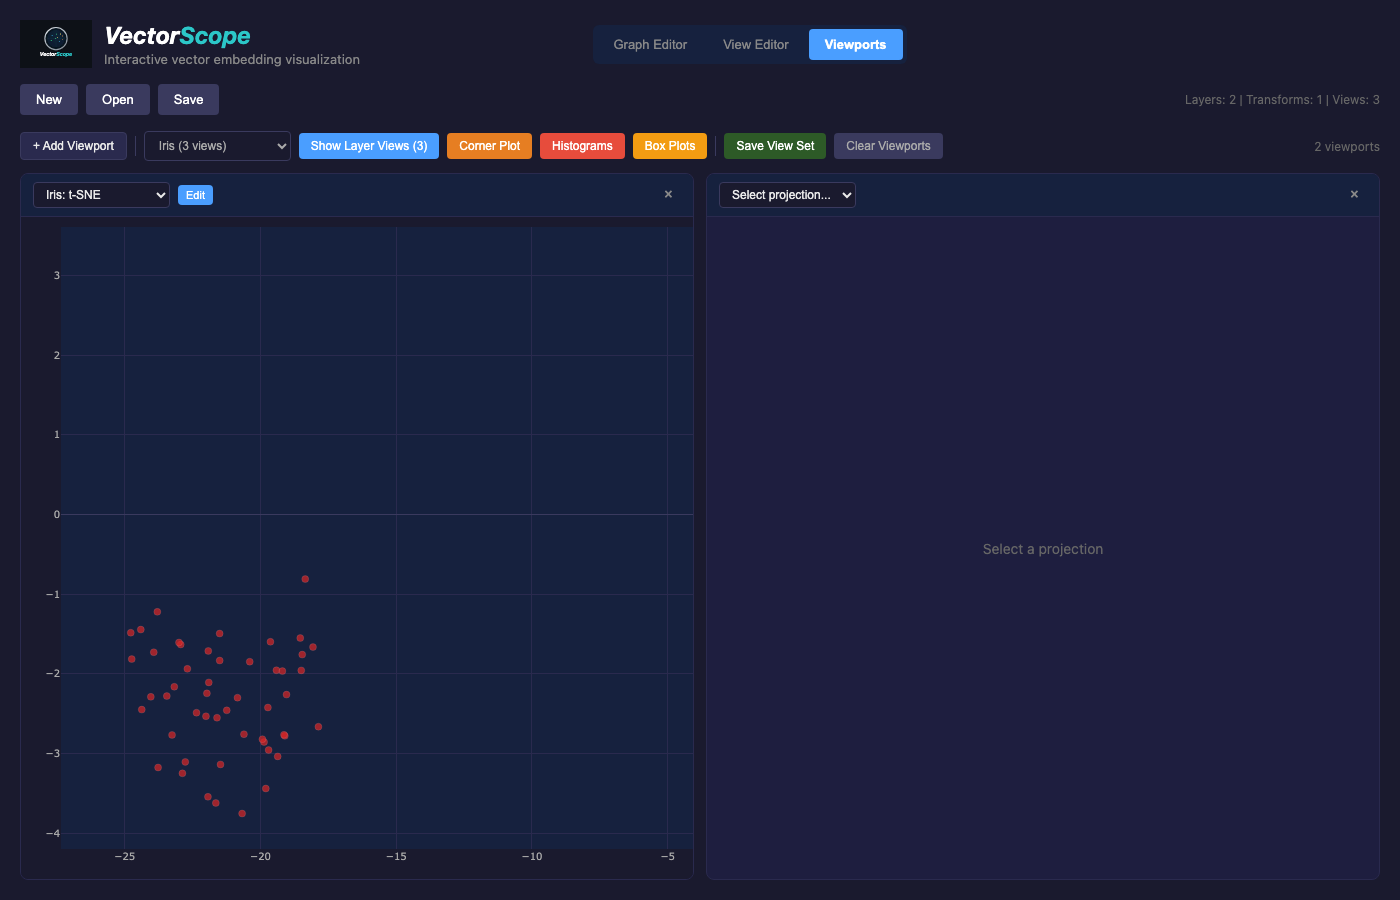
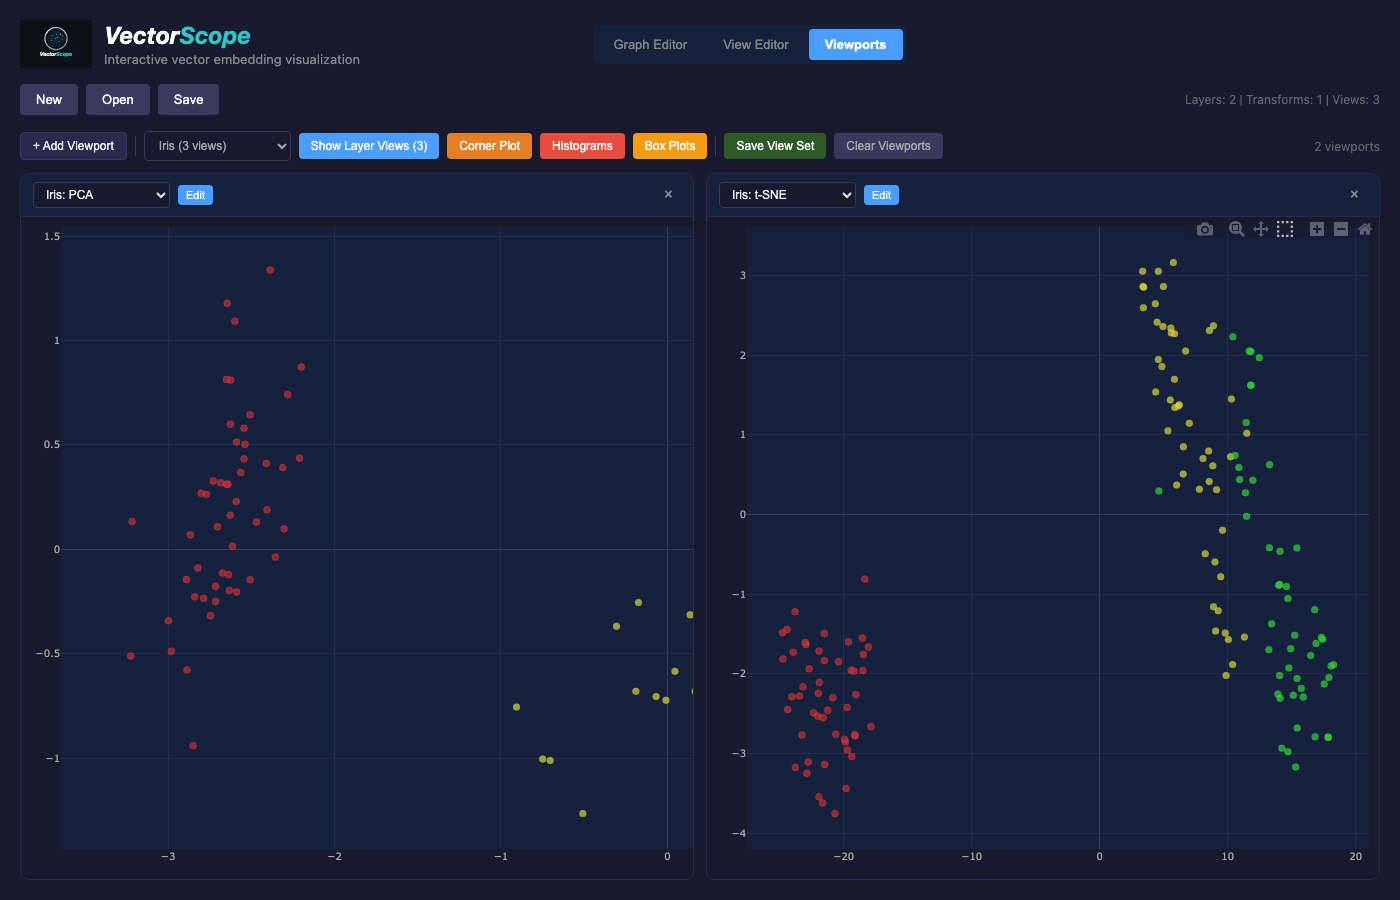
Fix viewports screenshot to show PCA left, t-SNE right
- Improved viewport select detection logic
- Added debug output to verify projection selection
- Both viewports now correctly display their assigned projections

🤖 Generated with [Claude Code](https://claude.com/claude-code)

diff --git a/scripts/capture_screenshots.py b/scripts/capture_screenshots.py
@@ -137,28 +137,39 @@ async def capture_screenshots():
 
             # Add a second viewport
             await page.click("button:has-text('Add Viewport')", timeout=5000)
-            await page.wait_for_timeout(500)
+            await page.wait_for_timeout(1000)
 
-            # Select PCA for first viewport
-            selects = await page.query_selector_all("select")
-            if len(selects) >= 1:
-                options = await selects[0].query_selector_all("option")
+            # Get all viewport select dropdowns (exclude any other selects)
+            # Look for selects that have "Select projection" option
+            all_selects = await page.query_selector_all("select")
+            viewport_selects = []
+            for select in all_selects:
+                inner_text = await select.inner_text()
+                if "Select projection" in inner_text or "pca" in inner_text.lower() or "tsne" in inner_text.lower():
+                    viewport_selects.append(select)
+
+            print(f"Found {len(viewport_selects)} viewport selects")
+
+            # Select PCA for first viewport (left)
+            if len(viewport_selects) >= 1:
+                options = await viewport_selects[0].query_selector_all("option")
                 for i, opt in enumerate(options):
                     text = await opt.text_content()
                     if "pca" in text.lower():
-                        await selects[0].select_option(index=i)
-                        await page.wait_for_timeout(500)
+                        await viewport_selects[0].select_option(index=i)
+                        print(f"Selected PCA in viewport 1: {text}")
+                        await page.wait_for_timeout(1000)
                         break
 
-            # Select t-SNE for second viewport
-            selects = await page.query_selector_all("select")
-            if len(selects) >= 2:
-                options = await selects[1].query_selector_all("option")
+            # Select t-SNE for second viewport (right)
+            if len(viewport_selects) >= 2:
+                options = await viewport_selects[1].query_selector_all("option")
                 for i, opt in enumerate(options):
                     text = await opt.text_content()
                     if "tsne" in text.lower() or "t-sne" in text.lower():
-                        await selects[1].select_option(index=i)
-                        await page.wait_for_timeout(500)
+                        await viewport_selects[1].select_option(index=i)
+                        print(f"Selected t-SNE in viewport 2: {text}")
+                        await page.wait_for_timeout(1000)
                         break
 
             await page.wait_for_timeout(2000)
@@ -168,6 +179,8 @@ async def capture_screenshots():
             print("Captured: viewports.png")
         except Exception as e:
             print(f"Note: Could not set up viewports: {e}")
+            import traceback
+            traceback.print_exc()
 
         # Screenshot 7: Histograms - click the "Histograms" button in Viewports
         try:
